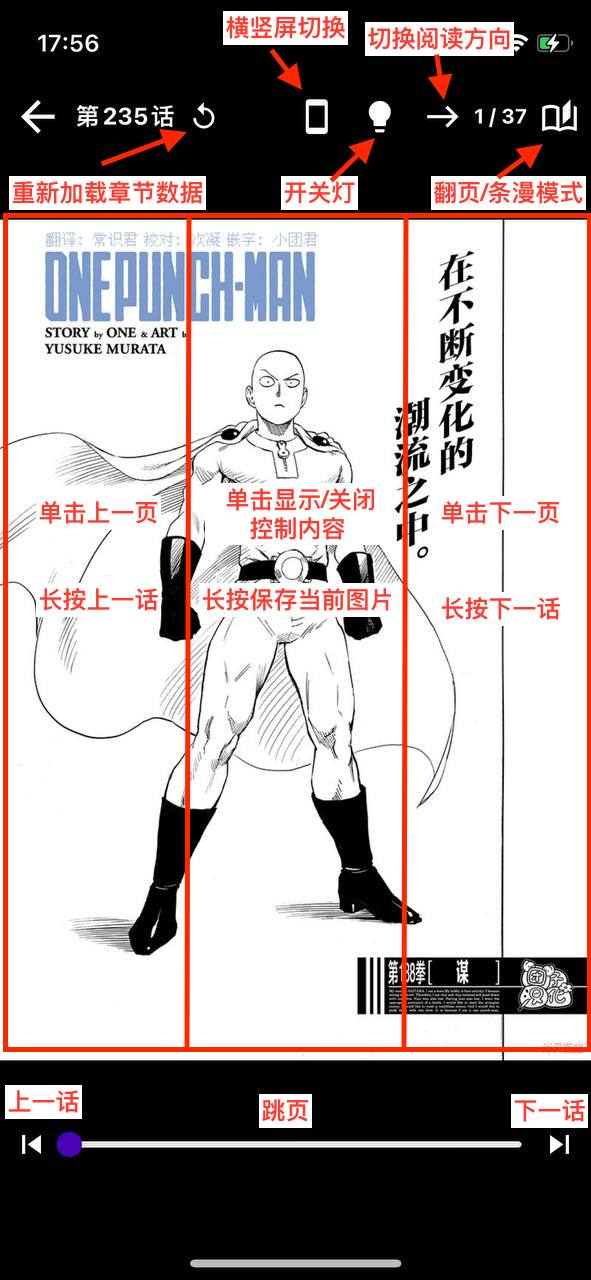
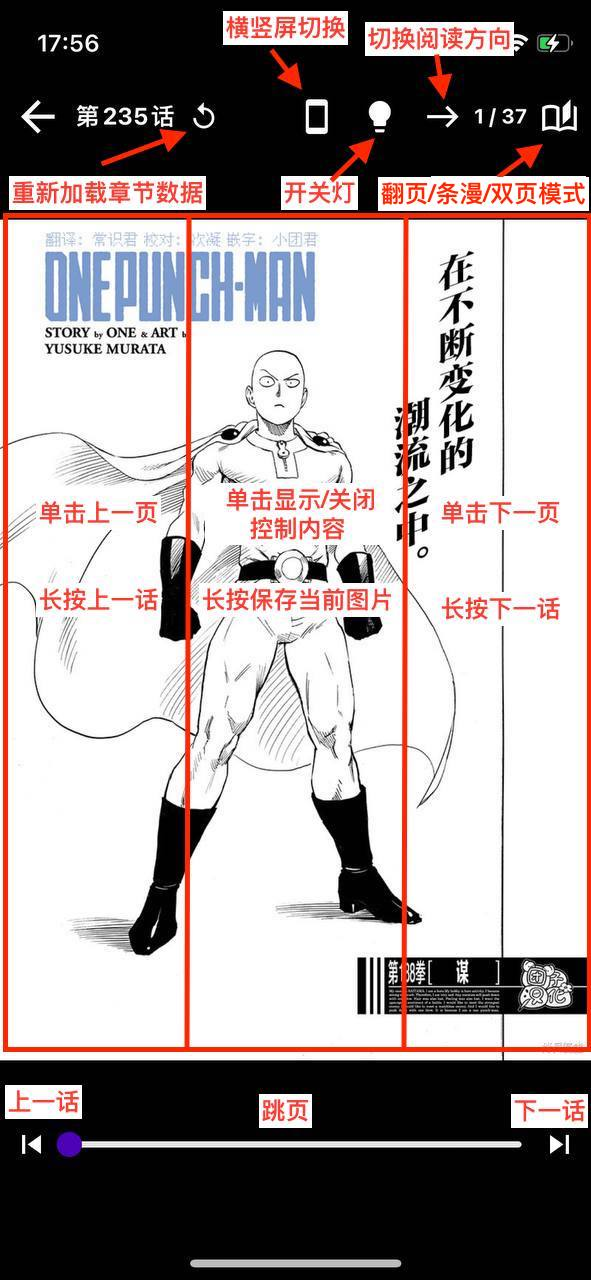
update readme

Changed region(s): [[0.6396, 0.125, 1.0, 0.1875]]

diff --git a/readme.md b/readme.md
@@ -7,10 +7,10 @@
 
 一个漫画 APP📱，基于 react-native 构建，兼容 Android、Ios，尽可能适配平板
 
-- 插件式设计
+- 插件式设计、近十个可用[插件](#插件)
 - 收藏、搜索、批量更新、下载、导出
-- 图片手势控制、本地缓存
-- 收藏备份和恢复
+- 翻页/条漫/平叛双页模式、无限翻页、保存图片
+- 数据全本地离线化、支持备份和恢复
 
 <p align="center">
   <img src="./static/demo.gif" alt="demo" />
